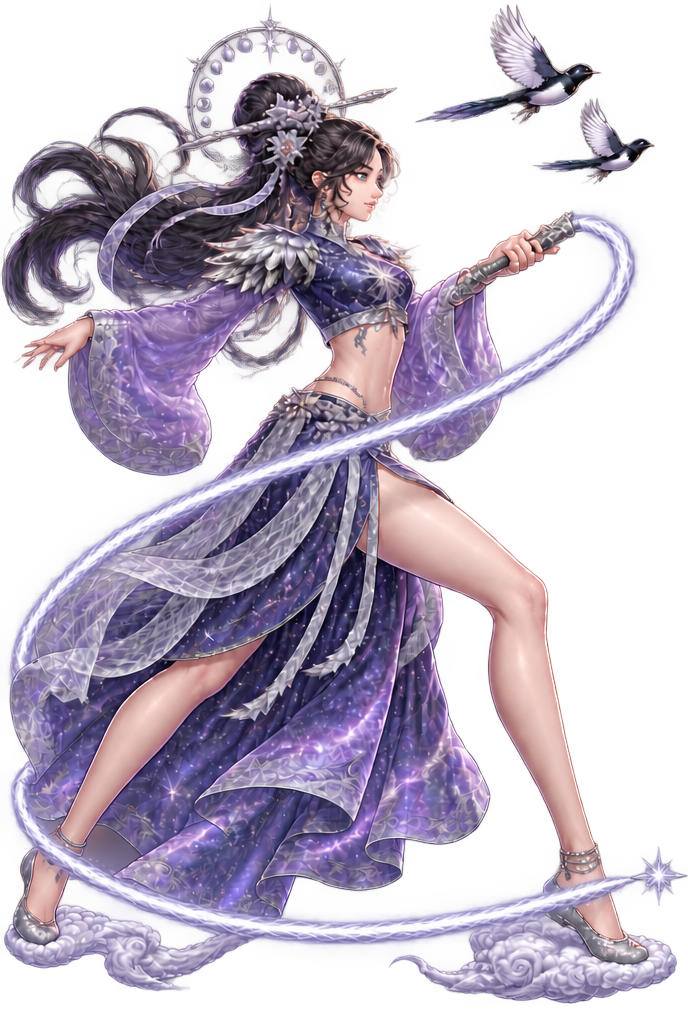
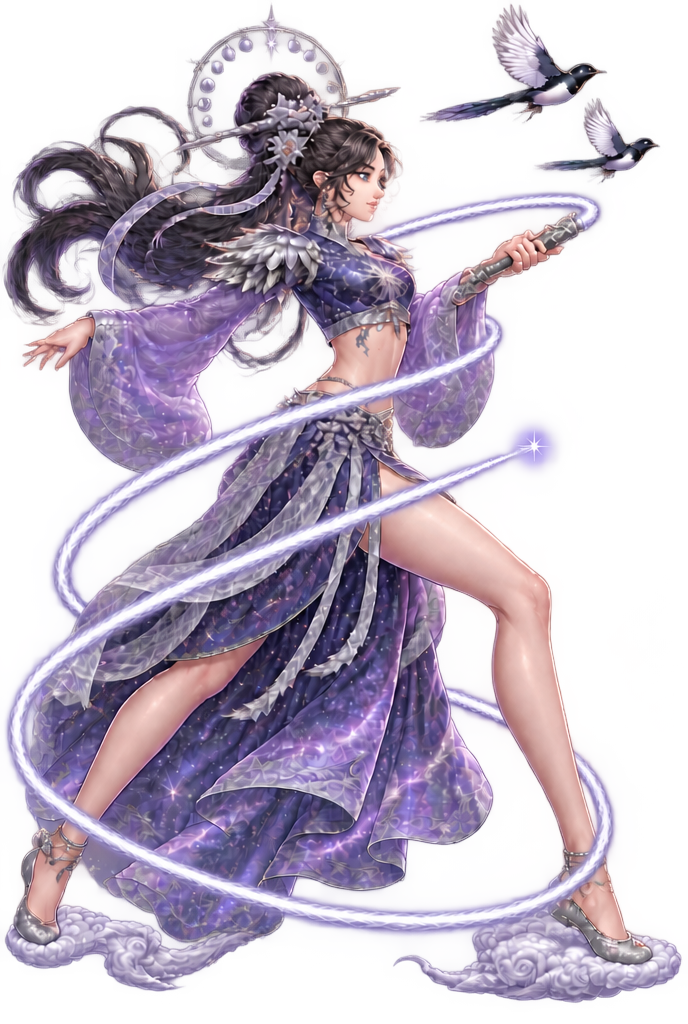
각성2 스킨 10명 확정, 의상 노출 규칙 고정
Claude-Session: https://claude.ai/code/session_01X3WCR5nTXLkTaQuYbPMPiQ

diff --git a/game-design/art/그림_규칙.md b/game-design/art/그림_규칙.md
@@ -126,3 +126,14 @@ EDIT this exact image. Keep the exact same art style, line work, muted coloring,
   - 지시문에는 매번 빠짐없이 넣는다: 그림체 고정 문장 + "SAME BODY PROPORTIONS AS THE FIRST REFERENCE: the same large full chest size ..." 체형 문장.
   - 부드러운 성격의 캐릭터는 그림체 문장 바로 뒤에 "Her gentle personality shows only in her expression and pose; the line work, shading and body proportions stay exactly the reference style."를 붙인다.
 - **발사 위치 (11/23):** 탄·스킬·협력 탄은 모두 그 캐릭터 무기 끝에서 나간다. 새 게임 그림을 넣을 때 기획방이 무기 끝 좌표(기획 25 표 형식)를 같이 넘긴다.
+
+
+## 각성2·스킨 의상 규칙 (11/26 사용자, 고정)
+1. **기준 캐릭터가 최우선**: 얼굴·머리·체형·특징 소품 등 그 캐릭터의 기준 모습을 먼저 지키고, 그 위에 옷만 바꾼다. (그림체는 언제나 달빛 극화체, 참고 그림은 T3_front·S4)
+2. **노출 고정값**: 가슴은 약 65% 가림(가슴골·윗부분은 보임), **배는 덮지 않음**. 이 값을 먼저 정해 두고 옷을 디자인한다.
+   - 프롬프트 예: "a top that covers about 65% of the bust, showing cleavage and the upper part, bare midriff (stomach uncovered)".
+   - 「가슴·배를 덮는 닫힌 옷」이라고 쓰지 않는다(각성2 1차에서 노출이 낮아져 다시 그림).
+3. **의상 디자인은 인터넷에서 여러 자료를 찾아** 겹치지 않게 다양하게 만든다(한복·무녀복·갑옷·무희복·혼례복 등 갈래별로).
+4. 엉덩이는 옷으로 가린다(손각시 수정).
+5. 채찍 같은 긴 무기: 몸을 나선으로 감고 **앞뒤 가림**(뒤로 지나는 곳은 몸에 가려짐)을 적는다.
+6. 방패: 볼록한 쪽(가운데 장식)이 적 쪽, 몸 쪽은 평평.

diff --git a/game-design/art/각성2/README.md b/game-design/art/각성2/README.md
@@ -6,7 +6,7 @@
 |---|---|---|---|
 | 3 | 탈 도깨비 | 불꽃 탈 여왕 | b0c102bb-c61a-44ab-9542-2b5e688a6776 |
 | 17 | 우렁각시 | 진주 바다 왕비 | 5a92831b-86a8-4f85-a6be-63fe2626cea1 |
-| 18 | 직녀 | 칠석 별 무희(배 드러냄, 긴 채찍이 몸을 감음) | b0a70d68 → 9253f4a3 → 2b6374d0-f1bb-4681-ad2f-9023838db6d2 |
+| 18 | 직녀 | 칠석 별 무희(배 드러냄, 긴 채찍이 몸을 나선으로 감음, 앞뒤 가림) | 893a3d31-69cc-4de6-a074-010225a4e41f (직접 그린 길잡이 56e0cb60 참고) |
 
 - 직녀 교훈: 채찍은 「몸을 감는 아주 긴 한 줄, 끝은 오른쪽 앞」으로 처음부터 적기. 등 뒤로 지나가는 가닥이 생기지 않게 길을 순서대로 적는다.
 | 27 | 야광귀 | 별빛 신발 도둑 여왕(별 체는 손바닥 앞에 떠 있음) | 69bd1b55-7a51-4225-9db1-a00c47aed1ab (1차 0516e0c4 폐기) |
@@ -17,3 +17,8 @@
 ## 노출 규칙 (11/26 사용자)
 - 각성2는 **지금 각성과 같은 노출 수준**으로 그린다. 프롬프트에 「가슴·배를 덮는 닫힌 옷」을 넣지 않는다(1차에서 넣어 노출이 낮아져 다시 그림).
 - 몸매·가슴 표현도 지금 각성과 같게: 「the same voluptuous body proportions」, 「same exposure level as before」.
+| 14 | 바리공주 | 생명꽃 공주 | 676b1b84-1d9e-4a51-a969-c2405dcee82e |
+| 25 | 손각시 | 서리 달 신부(엉덩이는 옷으로 가림) | 4496b231-e3f5-4ff1-9045-e239b5d3f491 |
+| 26 | 심청 | 연꽃 용왕비(방패 결합 창, 방패는 앞으로 볼록) | fc8e6729-51ce-4cad-92bd-08759321e087 |
+
+10명 모두 확정(11/26).

diff --git a/game-design/00_결정사항.md b/game-design/00_결정사항.md
@@ -294,3 +294,4 @@
 | 2026-11-25 | 기획 30 §10 적용: 도깨비체스 15 Stage · 3줄×5칸 고르기(별 3단계, EX 버튼), 새 Stage 11~15(야광귀·영등·손각시·심청·마고, bgS11~15). 사용자 변경: BOSS ROUND = 7 Round 중 5번째(긴 밤 5·10·15), 개발자 모드 전부 열림 + 시작 ROUND 고르기 — 개발 cc5c149 | 30 |
 | 2026-11-25 | 화면 이름 「장터」 → 「로비」(◀ 로비·⌂ 로비로·안내 문구, 지명은 그대로) — 개발방 반영. PVP 균형 원칙(같은 조건·꾸밈 보상)은 검토 중(기획 30 §12) | 30 |
 | 2026-11-26 | 기획 30 §13 적용(사용자 「진행해」): ★6까지 모든 캐릭터·각성2 새 옷은 비용 1~2 여자 10명(각성3은 없음), 이어가기/새로 시작, 누적 Round 세기(선형으로 조정), 배치 최대 8/10/12 — 개발 브랜치 최신, 시험 jin_sim100 | 30 |
+| 2026-11-26 | 각성2 스킨 10명 확정(탈 도깨비·우렁각시·직녀·야광귀·불가사리·장승 자매·바리공주·세오녀·손각시·심청, `art/게임용/awbNNp.webp`). 그림 규칙 고정: 기준 캐릭터 최우선, 가슴 65% 가림·배 드러냄, 의상은 인터넷 자료로 다양하게 | 30·그림 규칙 |
